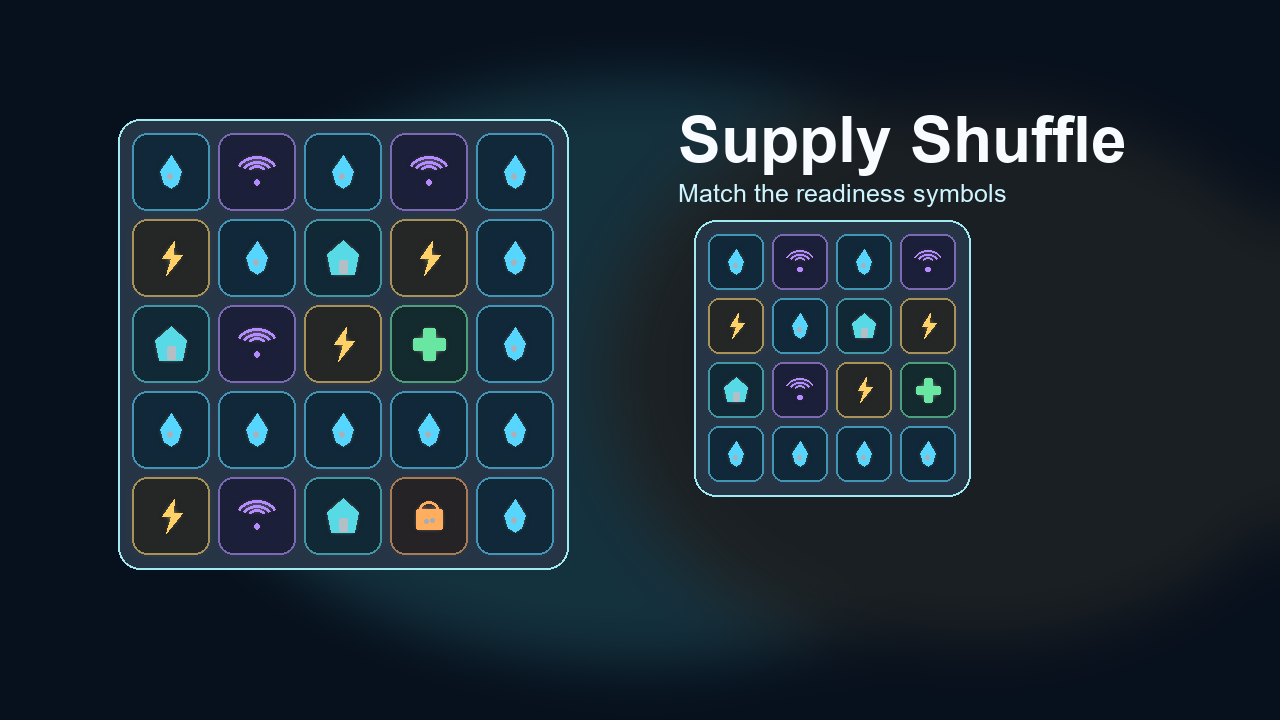
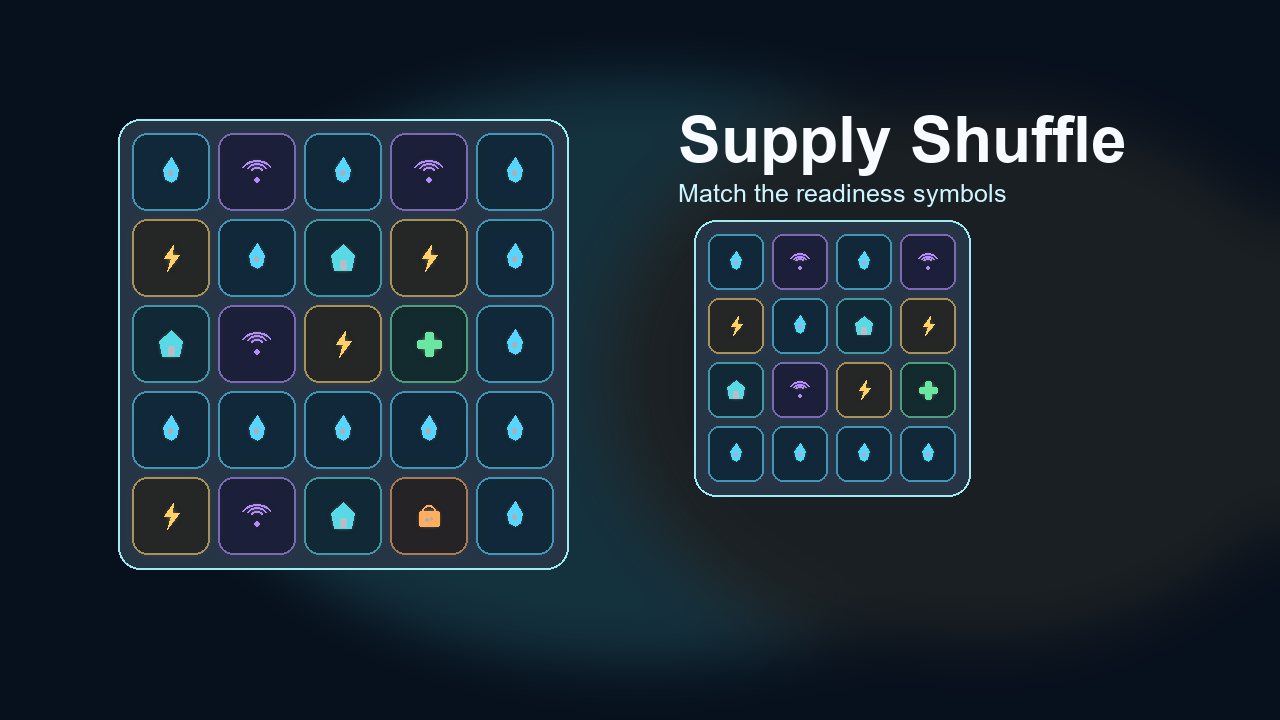
Shrink Supply Shuffle tile symbols

diff --git a/games/supply-shuffle/module.js b/games/supply-shuffle/module.js
@@ -823,7 +823,7 @@ export function mountGame(session, options = {}) {
         ctx.lineWidth = Math.max(1.4, size * 0.035);
         ctx.stroke();
 
-        drawTileSymbol(definition.symbol, size * 0.82, definition.color, definition.accent);
+        drawTileSymbol(definition.symbol, size * 0.62, definition.color, definition.accent);
 
         if (tile.special) {
             drawSpecialMark(tile.special, size, definition.accent);
@@ -845,6 +845,7 @@ export function mountGame(session, options = {}) {
         ctx.lineJoin = "round";
 
         if (symbol === "droplet") {
+            ctx.translate(0, -size * 0.08);
             ctx.beginPath();
             ctx.moveTo(0, -size * 0.3);
             ctx.bezierCurveTo(size * 0.24, -size * 0.06, size * 0.29, size * 0.1, size * 0.29, size * 0.2);